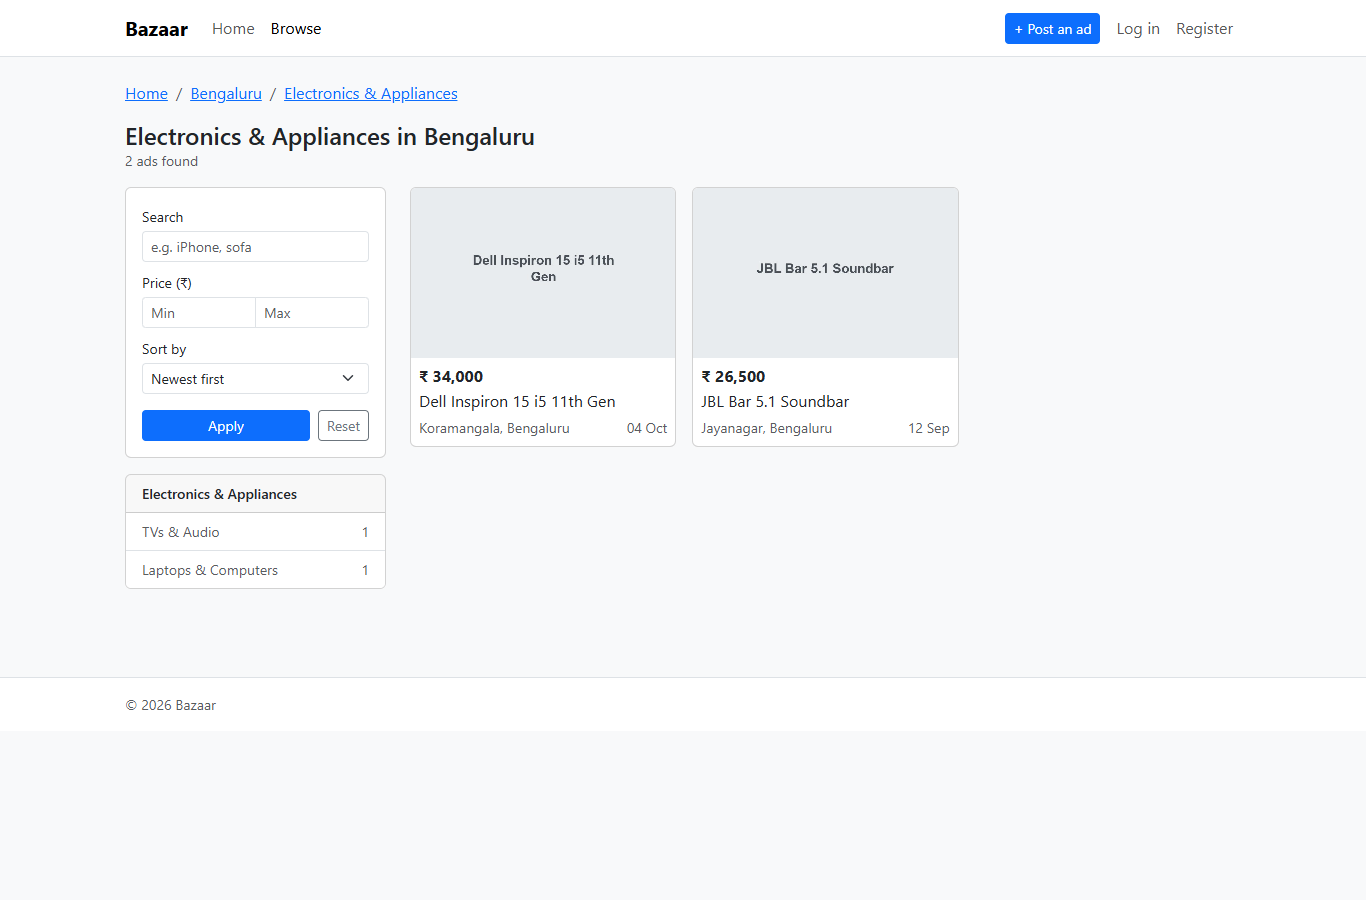
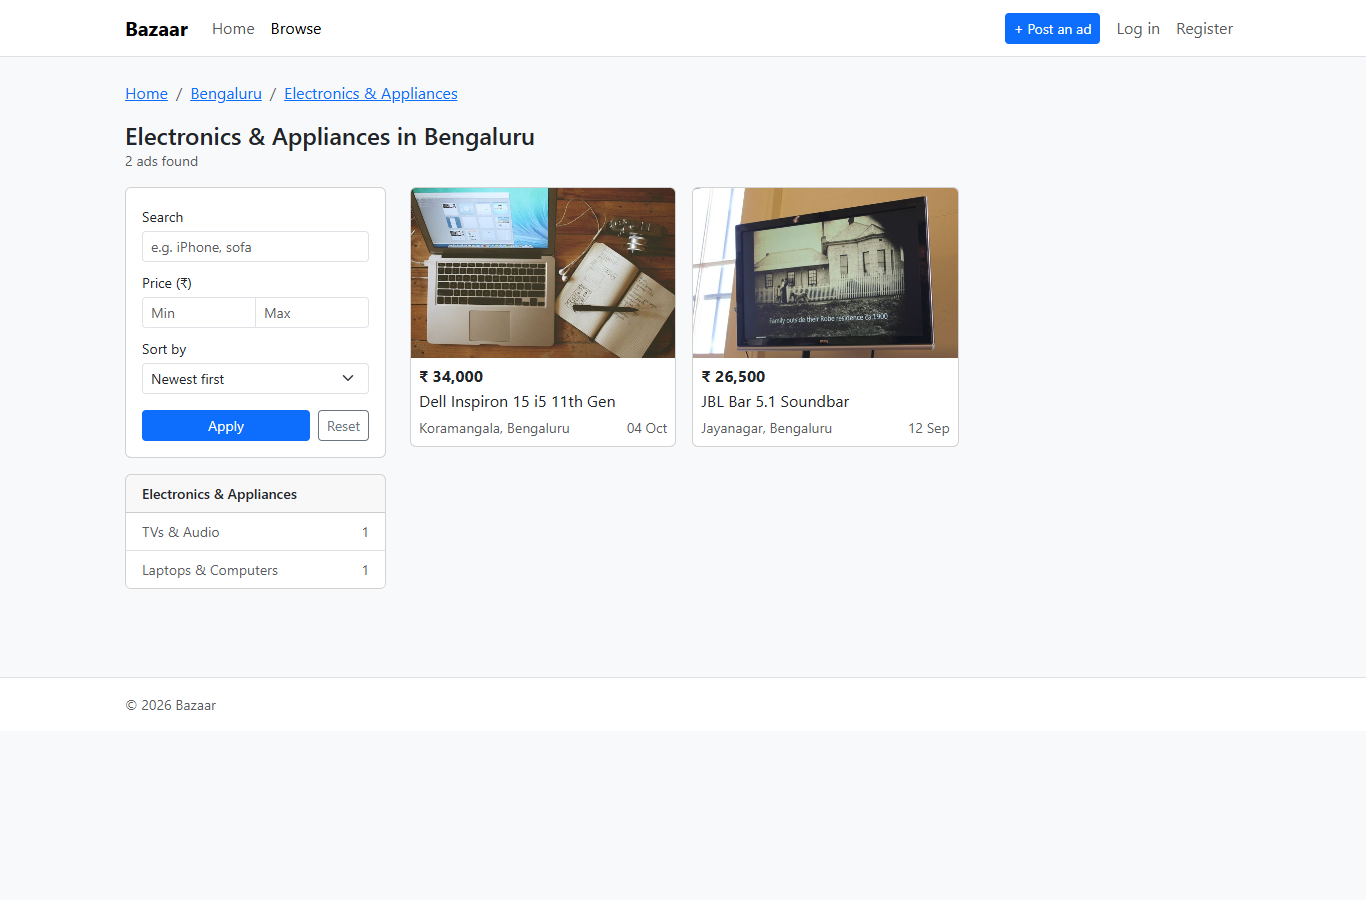
Use real public-domain photos for demo listings

Changed region(s): [[0.2767, 0.1867, 0.7072, 0.4044]]

diff --git a/database/seeders/DemoListingSeeder.php b/database/seeders/DemoListingSeeder.php
@@ -15,6 +15,12 @@ class DemoListingSeeder extends Seeder
     private const IMAGE_DIR = 'listings/demo';
 
     /**
+     * Real photos per subcategory: database/seeders/images/<subcategory-slug>/*.jpg
+     * (see CREDITS.md there). Without photos a grey placeholder is generated.
+     */
+    private const PHOTO_SOURCE = __DIR__.'/images';
+
+    /**
      * Demo sellers. The first one is the account mentioned in the README.
      */
     private const USERS = [
@@ -180,7 +186,9 @@ class DemoListingSeeder extends Seeder
             $sub = $subcategories->get($subSlug)
                 ?? throw new \RuntimeException("Unknown subcategory [{$subSlug}], run CategorySeeder first.");
 
-            foreach ($rows as [$title, $min, $max, $description]) {
+            $photos = $this->photosFor($subSlug);
+
+            foreach ($rows as $row => [$title, $min, $max, $description]) {
                 $city = $weightedCities[mt_rand(0, $weightedCities->count() - 1)];
                 /** @var Area $area */
                 $area = $city->areas[mt_rand(0, $city->areas->count() - 1)];
@@ -208,9 +216,15 @@ class DemoListingSeeder extends Seeder
                 ])->save();
 
                 $imageCount = mt_rand(1, 3);
+                if ($photos) {
+                    $imageCount = min($imageCount, count($photos));
+                }
                 for ($i = 0; $i < $imageCount; $i++) {
                     $listing->images()->create([
-                        'path' => $this->makeImage($listing, $i),
+                        // Each ad of the same subcategory starts at a different photo.
+                        'path' => $photos
+                            ? $this->copyPhoto($listing, $photos[($row + $i) % count($photos)], $i)
+                            : $this->makeImage($listing, $i),
                         'sort_order' => $i,
                         'is_primary' => $i === 0,
                     ]);
@@ -244,6 +258,28 @@ class DemoListingSeeder extends Seeder
         };
 
         return (int) (round($price / $step) * $step);
+    }
+
+    /**
+     * @return list<string> photo files for the subcategory, sorted by name
+     */
+    private function photosFor(string $subSlug): array
+    {
+        $files = array_filter(
+            glob(self::PHOTO_SOURCE."/{$subSlug}/*") ?: [],
+            fn ($f) => in_array(strtolower(pathinfo($f, PATHINFO_EXTENSION)), ['jpg', 'jpeg', 'png', 'webp'], true),
+        );
+        sort($files, SORT_NATURAL);
+
+        return $files;
+    }
+
+    private function copyPhoto(Listing $listing, string $file, int $index): string
+    {
+        $path = self::IMAGE_DIR."/{$listing->id}-{$index}.".strtolower(pathinfo($file, PATHINFO_EXTENSION));
+        Storage::disk('public')->put($path, file_get_contents($file));
+
+        return $path;
     }
 
     /**

diff --git a/database/seeders/images/CREDITS.md b/database/seeders/images/CREDITS.md
@@ -1,0 +1,102 @@
+# Demo listing photos
+
+Used by `DemoListingSeeder`: each folder is a subcategory slug and its photos are copied into the demo ads.
+You can replace them or add your own (`.jpg`, `.jpeg`, `.png`, `.webp`).
+
+All photos below are public domain (CC0 or Public Domain Mark), found through [Openverse](https://openverse.org), cropped to 800x600.
+
+| File | Title | Creator | License | Source |
+|---|---|---|---|---|
+| `mobile-phones/1.jpg` | Messaging on smartphone | StockyPics | CC0 | [link](https://www.flickr.com/photos/135371437@N04/22389367255) |
+| `mobile-phones/2.jpg` | apple-iphone-smartphone-desk-1 | pixellaphoto | CC0 | [link](https://www.flickr.com/photos/137643065@N06/24217686692) |
+| `mobile-phones/3.jpg` | apple-iphone-smartphone-desk | pixellaphoto | CC0 | [link](https://www.flickr.com/photos/137643065@N06/24243796611) |
+| `tablets/1.jpg` | Tablet Computer | Birch Landing Home | CC0 | [link](https://stocksnap.io/photo/tablet-computer-KCEVT4PCQ1) |
+| `tablets/2.jpg` | Business Working | Marc Chouinard | CC0 | [link](https://stocksnap.io/photo/business-working-PHE63L27S6) |
+| `tablets/3.jpg` | Macbook Laptop | Wilfred Iven | CC0 | [link](https://stocksnap.io/photo/macbook-laptop-RMATTE7HXJ) |
+| `mobile-accessories/1.jpg` | Koss headphones | Abdulla Al Muhairi | CC0 | [link](https://www.flickr.com/photos/57866029@N00/52459692877) |
+| `mobile-accessories/2.jpg` | Headphones | pasukaru76 | CC0 | [link](https://www.flickr.com/photos/38451115@N04/3605234342) |
+| `mobile-accessories/3.jpg` | Headphones in Black and White | Image Catalog | CC0 | [link](https://www.flickr.com/photos/132795455@N08/22921682035) |
+| `cars/1.jpg` | A silver SUV parked on a grassy hilltop, surrounded by mist… | Manoj Gyawali | CC0 | [link](https://wordpress.org/photos/photo/316a1d24bc/) |
+| `cars/2.jpg` | A blue color SUV parked in front of an old church, Shettiha… | vgnavada | CC0 | [link](https://wordpress.org/photos/photo/832671fdc2/) |
+| `cars/3.jpg` | Coupe or Hatch? | Grif Batenhorst | CC0 | [link](https://www.flickr.com/photos/34163933@N00/12551107325) |
+| `motorcycles/1.jpg` | Motorcycling | NDDOT Photos | PDM | [link](https://www.flickr.com/photos/64355152@N07/14688503106) |
+| `motorcycles/2.jpg` | Motorcycling | NDDOT Photos | PDM | [link](https://www.flickr.com/photos/64355152@N07/14708327341) |
+| `motorcycles/3.jpg` | Motorcycling | NDDOT Photos | PDM | [link](https://www.flickr.com/photos/64355152@N07/14720650578) |
+| `scooters/1.jpg` | _DSC2557.jpg | Mustang Joe | CC0 | [link](https://www.flickr.com/photos/63234672@N04/19760106715) |
+| `scooters/2.jpg` | Vespa scooter at Beatty Street Easy Park | roland | CC0 | [link](https://www.flickr.com/photos/35034347371@N01/51623109) |
+| `scooters/3.jpg` | My Vespa | Ali Sabbagh | CC0 | [link](https://www.flickr.com/photos/32174721@N04/48375460116) |
+| `bicycles/1.jpg` | The Red Bicycle. | Bernard Spragg | CC0 | [link](https://www.flickr.com/photos/88123769@N02/15655615295) |
+| `bicycles/2.jpg` | bicycle | marcostetter | PDM | [link](https://www.flickr.com/photos/149556095@N03/48019235328) |
+| `bicycles/3.jpg` | Demolished bicycle on the bridge at the end of Kinkerstraat… | Amsterdam free photos & pictures of the Dutch city | CC0 | [link](https://www.flickr.com/photos/104736837@N03/10903156366) |
+| `houses-for-sale/1.jpg` | Apartment building | DennisM2 | CC0 | [link](https://www.flickr.com/photos/14674348@N04/15380775232) |
+| `houses-for-sale/2.jpg` | Modern apartment building | DennisM2 | CC0 | [link](https://www.flickr.com/photos/14674348@N04/14996764996) |
+| `houses-for-sale/3.jpg` | Apartment Building with Balconies at Dusk | Image Catalog | CC0 | [link](https://www.flickr.com/photos/132795455@N08/22835862241) |
+| `houses-for-rent/1.jpg` | Free minimalist living room interior |  | CC0 | [link](https://www.rawpixel.com/image/5927318/photo-image-public-domain-minimalist-house) |
+| `houses-for-rent/2.jpg` | Free living room interior design |  | CC0 | [link](https://www.rawpixel.com/image/5917348/image-frame-light-public-domain) |
+| `houses-for-rent/3.jpg` | Free living room interior design |  | CC0 | [link](https://www.rawpixel.com/image/5927053/photo-image-frame-light-public-domain) |
+| `shops-offices/1.jpg` | office interior | Foto Miki Digital | PDM | [link](https://www.flickr.com/photos/96511847@N04/10798088985) |
+| `shops-offices/2.jpg` | Office interior | Foto Miki Digital | PDM | [link](https://www.flickr.com/photos/96511847@N04/10560649053) |
+| `shops-offices/3.jpg` | Office Interior | Matt Moloney | CC0 | [link](https://stocksnap.io/photo/office-interior-NSQTXCLWQ5) |
+| `land-plots/1.jpg` | 20130920-OC-LSC-1326 | USDAgov | PDM | [link](https://www.flickr.com/photos/41284017@N08/10460713646) |
+| `land-plots/2.jpg` | Agricultural Land-Based Training Association - ALBA Grows S… | FarmersGov | PDM | [link](https://www.flickr.com/photos/144815448@N07/32434450657) |
+| `land-plots/3.jpg` | Post-demolition vacant lot, 1100 block of E. Hoffman Street… | Baltimore Heritage | CC0 | [link](https://www.flickr.com/photos/44034762@N04/27335263308) |
+| `tvs-audio/1.jpg` | First abandoned flat screen TV I've seen | mlinksva | CC0 | [link](https://www.flickr.com/photos/44124284226@N01/2992997518) |
+| `tvs-audio/2.jpg` | Customs House, Robe | South Australian History Network | CC0 | [link](https://www.flickr.com/photos/59809888@N06/7169453372) |
+| `tvs-audio/3.jpg` | Lautsprecher - loudspeaker | popkantor_tv | CC0 | [link](https://www.flickr.com/photos/138519992@N08/24309865076) |
+| `laptops-computers/1.jpg` | Asus laptop | cogdogblog | CC0 | [link](https://www.flickr.com/photos/37996646802@N01/2193891309) |
+| `laptops-computers/2.jpg` | Apple Laptop Computer with Headphones, Camera, and Open Not… | Image Catalog | CC0 | [link](https://www.flickr.com/photos/132795455@N08/17652700524) |
+| `laptops-computers/3.jpg` | Friendly Laptops | cogdogblog | CC0 | [link](https://www.flickr.com/photos/37996646802@N01/4751551743) |
+| `cameras/1.jpg` | Vintage Konica C35 Camera | StockyPics | CC0 | [link](https://www.flickr.com/photos/135371437@N04/24235671772) |
+| `cameras/2.jpg` | Camera | Image Catalog | CC0 | [link](https://www.flickr.com/photos/132795455@N08/24682234444) |
+| `cameras/3.jpg` | Yashica Camera with Lens | Image Catalog | CC0 | [link](https://www.flickr.com/photos/132795455@N08/18535344600) |
+| `kitchen-appliances/1.jpg` | new microwave oven | weremonkey | PDM | [link](https://www.flickr.com/photos/44642876@N00/27395909855) |
+| `kitchen-appliances/2.jpg` |  |  | CC0 | [link](https://www.rawpixel.com/image/5935324/free-public-domain-cc0-photo) |
+| `kitchen-appliances/3.jpg` | Modern white kitchen |  | CC0 | [link](https://www.rawpixel.com/image/6042998/photo-image-public-domain-house-kitchen) |
+| `sofa-dining/1.jpg` | Lounge furniture, sofa, arm chairs, round table, 3rd floor … | Wonderlane | CC0 | [link](https://www.flickr.com/photos/71401718@N00/5510326235) |
+| `sofa-dining/2.jpg` | 3D Rendering Couch / Sofa | Foto Miki Digital | PDM | [link](https://www.flickr.com/photos/96511847@N04/9203005054) |
+| `sofa-dining/3.jpg` | couch-furniture-living-room-sofa | pixellaphoto | CC0 | [link](https://www.flickr.com/photos/137643065@N06/24300293356) |
+| `beds-wardrobes/1.jpg` | beddresserchairwindow | athrasher | CC0 | [link](https://www.flickr.com/photos/56544547@N00/1174743713) |
+| `beds-wardrobes/2.jpg` | Bed Bedroom | Kelly Ishmael | CC0 | [link](https://stocksnap.io/photo/bed-bedroom-UJCTKDCTXC) |
+| `beds-wardrobes/3.jpg` |  |  | CC0 | [link](https://www.rawpixel.com/image/6066010/free-public-domain-cc0-photo) |
+| `home-decor/1.jpg` | Modern white couch in front of colorful wall / 3d interior | Foto Miki Digital | PDM | [link](https://www.flickr.com/photos/96511847@N04/9200509279) |
+| `home-decor/2.jpg` | PrayerRoom_faith-table-lamp | WPAUMC | PDM | [link](https://www.flickr.com/photos/125163985@N05/52975267221) |
+| `home-decor/3.jpg` | Wall clock, nearby Santa Maria del Fiore Basilica in Floren… | Carlo Raso | PDM | [link](https://www.flickr.com/photos/70125105@N06/26118585335) |
+| `fashion-men/1.jpg` | Leather Jacket | Robbie Noble | CC0 | [link](https://stocksnap.io/photo/leather-jacket-DK118BUX57) |
+| `fashion-men/2.jpg` | Black worn leather jacket detail |  | CC0 | [link](https://www.rawpixel.com/image/6076593/black-worn-leather-jacket-detail) |
+| `fashion-men/3.jpg` | Leather jacket shelf |  | CC0 | [link](https://www.rawpixel.com/image/6022833/photo-image-public-domain-business-free) |
+| `fashion-women/1.jpg` | Stylish rattan handbags on the balinese street in Ubud. | Artem Beliaikin | CC0 | [link](https://www.flickr.com/photos/157635012@N07/28634261097) |
+| `fashion-women/2.jpg` | Handmade natural organic rattan handbag. Tropical island of… | Artem Beliaikin | CC0 | [link](https://www.flickr.com/photos/157635012@N07/40776081110) |
+| `fashion-women/3.jpg` | Handmade natural organic rattan handbag. Tropical island of… | Artem Beliaikin | CC0 | [link](https://www.flickr.com/photos/157635012@N07/42585401221) |
+| `fashion-kids/1.jpg` | Baby Clothes | Matt Bango | CC0 | [link](https://stocksnap.io/photo/baby-clothes-Q2NLOOVQBU) |
+| `fashion-kids/2.jpg` | In Search of Summer #2 | mpardo.photo | CC0 | [link](https://www.flickr.com/photos/130551911@N05/17868802860) |
+| `fashion-kids/3.jpg` | The Kids shoes | roland | CC0 | [link](https://www.flickr.com/photos/35034347371@N01/58094480) |
+| `it-software-jobs/1.jpg` | Computer Mac | Lee Campbell | CC0 | [link](https://stocksnap.io/photo/computer-mac-825303XHAE) |
+| `it-software-jobs/2.jpg` | Software Programmers Joe and Matt, 20 stories up surrounded… | Wonderlane | CC0 | [link](https://www.flickr.com/photos/71401718@N00/2907871023) |
+| `it-software-jobs/3.jpg` | Programmers at Microsoft in Redmond Washington USA | Wonderlane | CC0 | [link](https://www.flickr.com/photos/71401718@N00/2337115848) |
+| `sales-marketing-jobs/1.jpg` | Business Meeting | Direct Media | CC0 | [link](https://stocksnap.io/photo/business-meeting-SSKSJIBMMP) |
+| `sales-marketing-jobs/2.jpg` | Business Meeting | Christina Morillo | CC0 | [link](https://stocksnap.io/photo/business-meeting-SKBXLJOILI) |
+| `sales-marketing-jobs/3.jpg` | Free hand shaking business meeting |  | CC0 | [link](https://www.rawpixel.com/image/5926299/photo-image-public-domain-hand-person) |
+| `delivery-driver-jobs/1.jpg` | Canada Post delivery truck | Open Grid Scheduler / Grid Engine | CC0 | [link](https://www.flickr.com/photos/29155878@N03/19915216628) |
+| `delivery-driver-jobs/2.jpg` | Cocacola delivery truck in Cochabamba | jimcintosh | CC0 | [link](https://www.flickr.com/photos/8105696@N05/3200230545) |
+| `delivery-driver-jobs/3.jpg` | Canada Post delivery truck | Open Grid Scheduler / Grid Engine | CC0 | [link](https://www.flickr.com/photos/29155878@N03/19915461860) |
+| `home-repair/1.jpg` | Toolbox | JFGryphon | CC0 | [link](https://www.flickr.com/photos/30484128@N03/49985663631) |
+| `home-repair/2.jpg` | 120625-F-VN552-016 | S.C. Air National Guard | PDM | [link](https://www.flickr.com/photos/85045231@N04/7981109952) |
+| `home-repair/3.jpg` | Shane Henning, electrician, installing new LED bulbs | YellowstoneNPS | PDM | [link](https://www.flickr.com/photos/80223459@N05/52653265115) |
+| `tuition-classes/1.jpg` | Classroom | cogdogblog | CC0 | [link](https://www.flickr.com/photos/37996646802@N01/46702870) |
+| `tuition-classes/2.jpg` | Classroom | cogdogblog | CC0 | [link](https://www.flickr.com/photos/37996646802@N01/2905046218) |
+| `tuition-classes/3.jpg` | Classroom | Quest Language Studies | PDM | [link](https://www.flickr.com/photos/96744615@N08/20519326125) |
+| `packers-movers/1.jpg` | Moving boxes and furniture | Emma_Alfa_London | PDM | [link](https://www.flickr.com/photos/96780967@N06/41151858244) |
+| `packers-movers/2.jpg` | Moving boxes and furniture | Emma_Alfa_London | PDM | [link](https://www.flickr.com/photos/96780967@N06/27000753027) |
+| `packers-movers/3.jpg` | The Master Plan | pasukaru76 | CC0 | [link](https://www.flickr.com/photos/38451115@N04/12369015044) |
+| `event-services/1.jpg` | wedding decorators in gurgaon | videek | PDM | [link](https://www.flickr.com/photos/193845755@N03/54203033021) |
+| `event-services/2.jpg` | wedding decorators in gurgaon | videek | PDM | [link](https://www.flickr.com/photos/193845755@N03/54203463030) |
+| `event-services/3.jpg` | wedding Decoration | partyhelpgroup | PDM | [link](https://www.flickr.com/photos/159127927@N08/25527613407) |
+| `dogs/1.jpg` | Wild Puppy | Philippe Vieux-Jeanton | CC0 | [link](https://www.flickr.com/photos/11234074@N05/14013137587) |
+| `dogs/2.jpg` | Cute white puppy | Wallboat | CC0 | [link](https://www.flickr.com/photos/151415985@N06/23503731148) |
+| `dogs/3.jpg` | Cute Puppies @ December 18, 2015 at 04:10PM | Dailypuppies | CC0 | [link](https://www.flickr.com/photos/136292790@N05/23529544100) |
+| `cats/1.jpg` | Three innocent kittens | iDapinder | CC0 | [link](https://www.flickr.com/photos/38709274@N02/14582884739) |
+| `cats/2.jpg` | Lucy as a Kitten 2 | comedy_nose | PDM | [link](https://www.flickr.com/photos/23408922@N07/8543102396) |
+| `cats/3.jpg` | Lucy as a Kitten 1 | comedy_nose | PDM | [link](https://www.flickr.com/photos/23408922@N07/8543102006) |
+| `pet-food-accessories/1.jpg` | White & brown dog leash |  | CC0 | [link](https://www.rawpixel.com/image/6025494/photo-image-public-domain-dog-cute) |
+| `pet-food-accessories/2.jpg` | Black white shot dog leash |  | CC0 | [link](https://www.rawpixel.com/image/3298488/free-photo-image-dog-accessory-animal) |
+| `pet-food-accessories/3.jpg` | Three Amigos at La Playa | moonjazz | PDM | [link](https://www.flickr.com/photos/8398907@N02/6715550443) |

diff --git a/CLAUDE.md b/CLAUDE.md
@@ -65,7 +65,7 @@ Final pass done:
 Design switched to plain Bootstrap 5 (user asked for a simple, normal Bootstrap look):
 - Tailwind removed; `resources/css/app.css` imports Bootstrap; `Paginator::useBootstrapFive()`
 - Breeze components rewritten for Bootstrap (dropdown/modal/nav-link components deleted; navbar collapse + dropdown + delete-account modal use Bootstrap JS)
-- Demo images are plain grey placeholders with the title
+- Demo photos: 93 public-domain photos (CC0/PDM via Openverse, hand-picked, 800x600) in `database/seeders/images/<subcategory>/` + CREDITS.md; DemoListingSeeder copies them, falls back to grey placeholders if a folder is empty
 - jQuery Validation uses `is-invalid` / `invalid-feedback`; re-validates flagged fields on `input` (paste/autofill)
 
 Validation on every form (jQuery + Laravel):

diff --git a/README.md b/README.md
@@ -39,6 +39,7 @@ Create an empty database called `laravel_marketplace`, then check the `DB_*` val
 
 ```bash
 php artisan migrate --seed   # tables + categories, locations, 5 demo users, 63 demo listings with photos
+                             # (photos come from database/seeders/images/<subcategory>/, public domain, see CREDITS.md there)
 php artisan storage:link     # makes uploaded photos public
 php artisan serve
 ```
